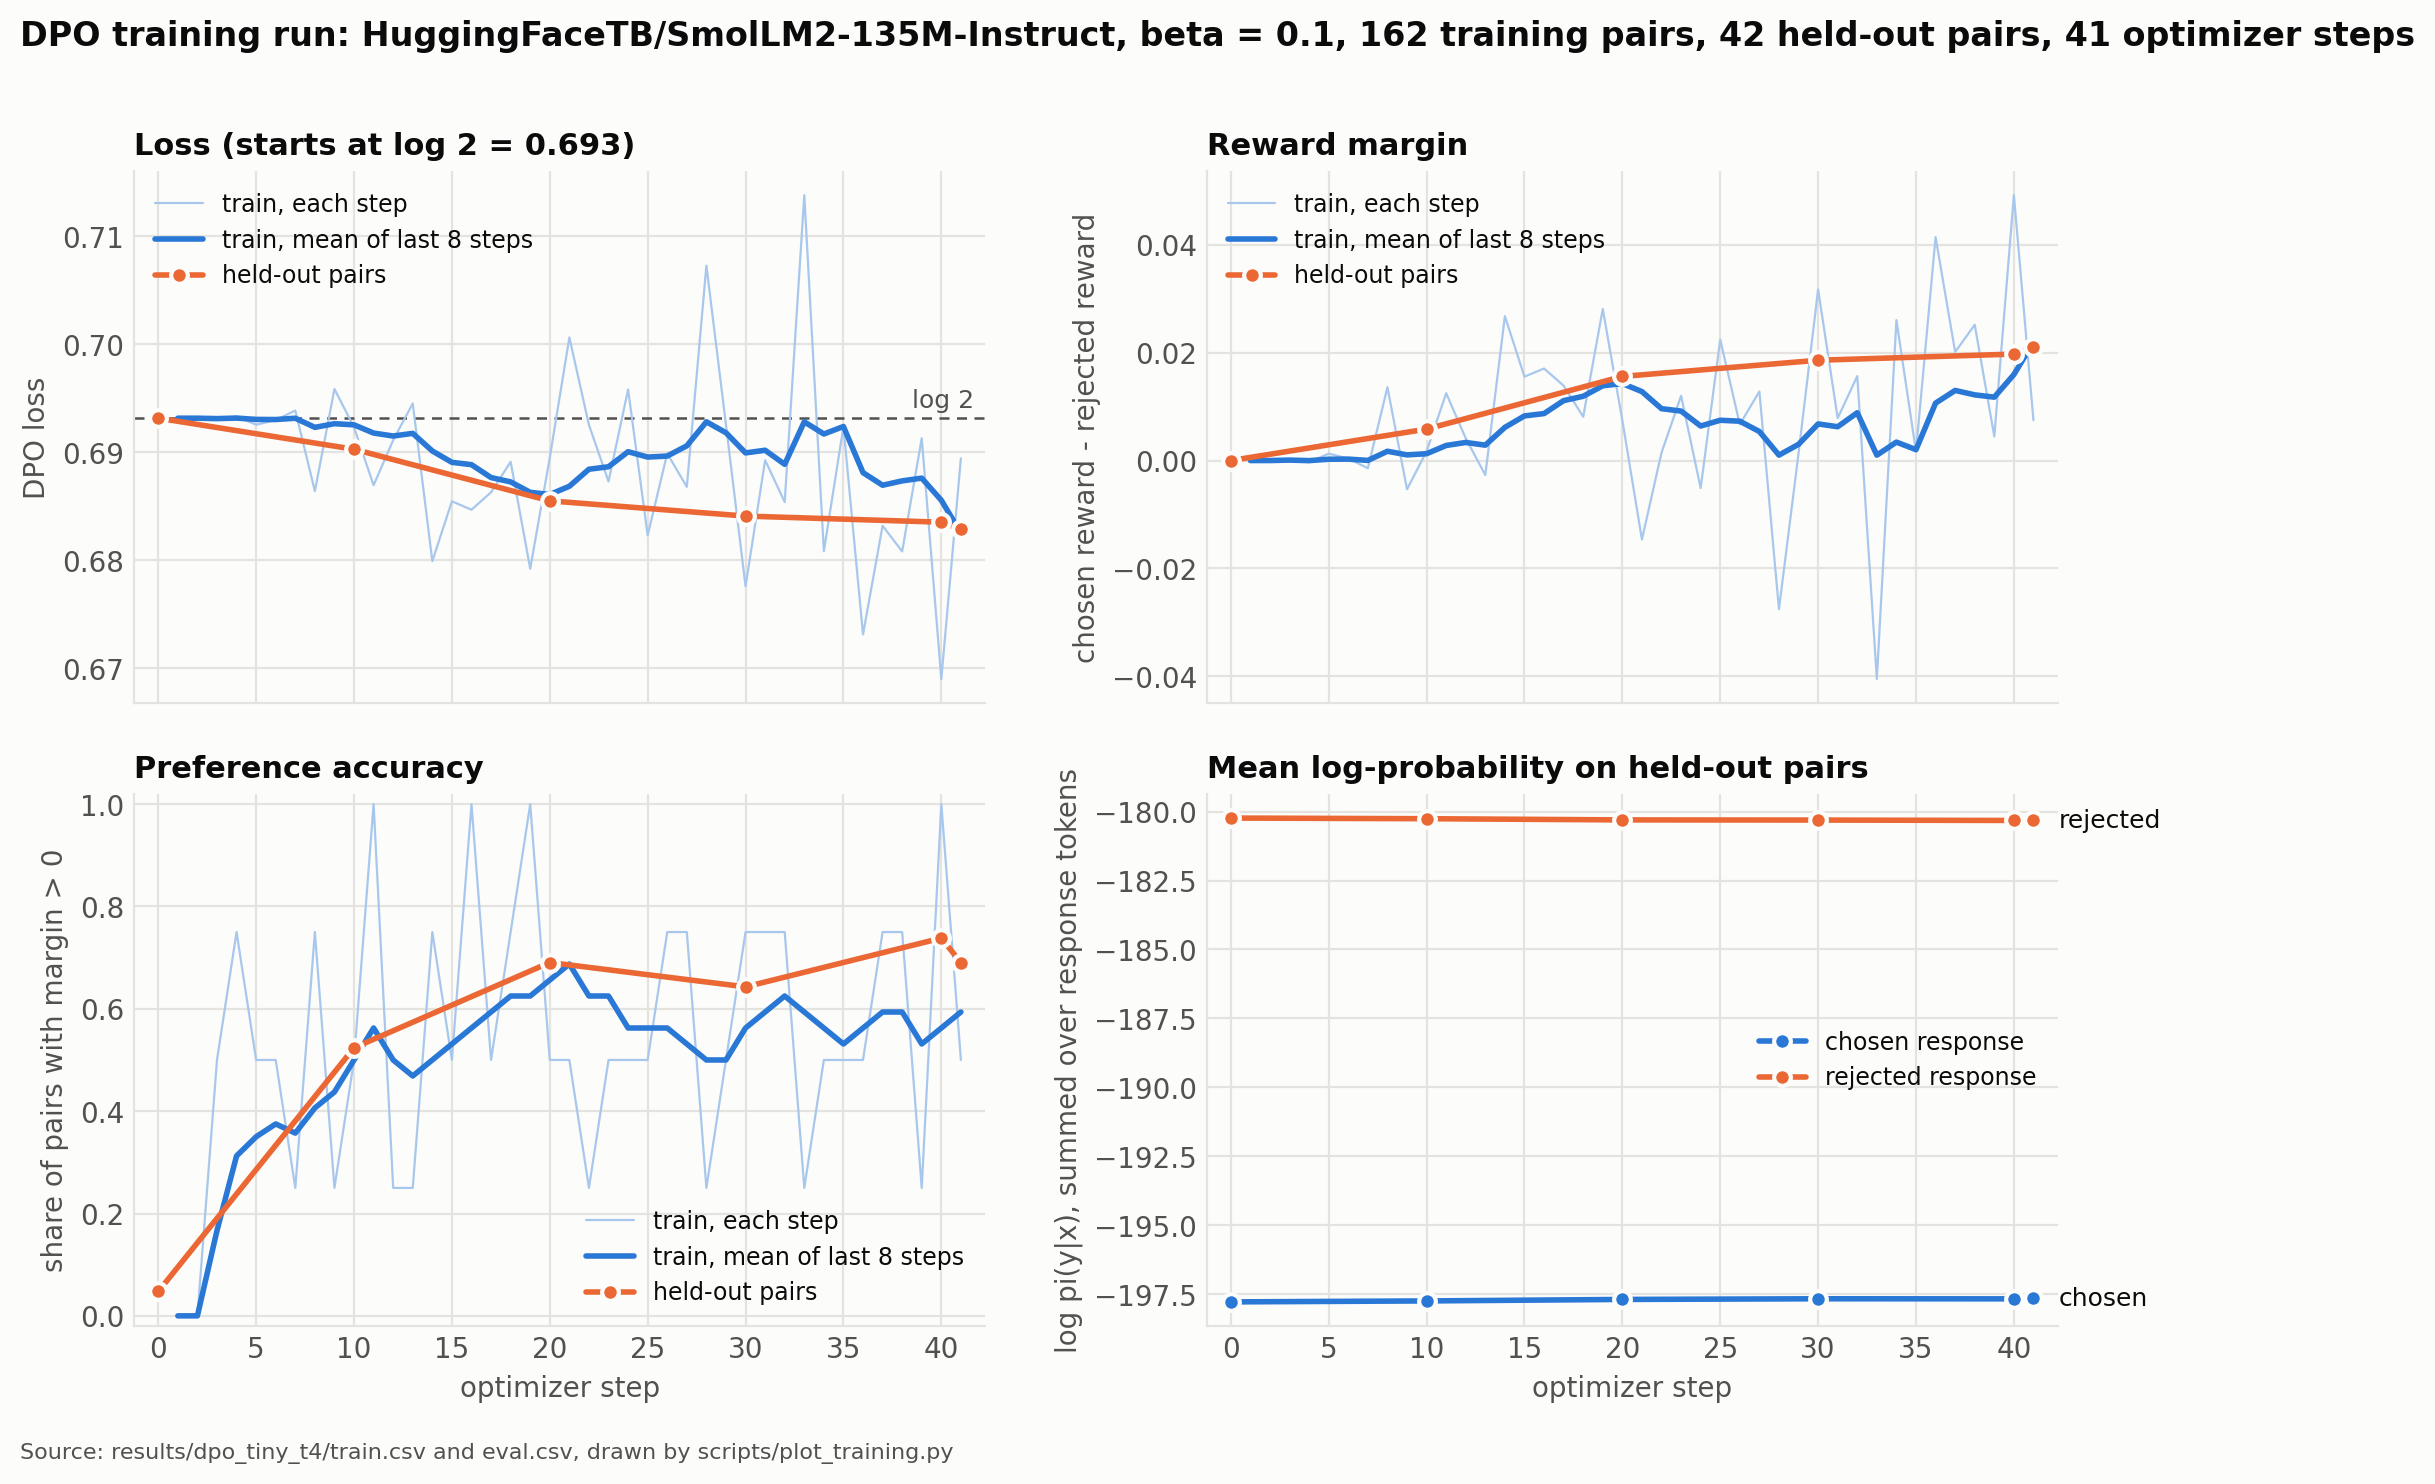
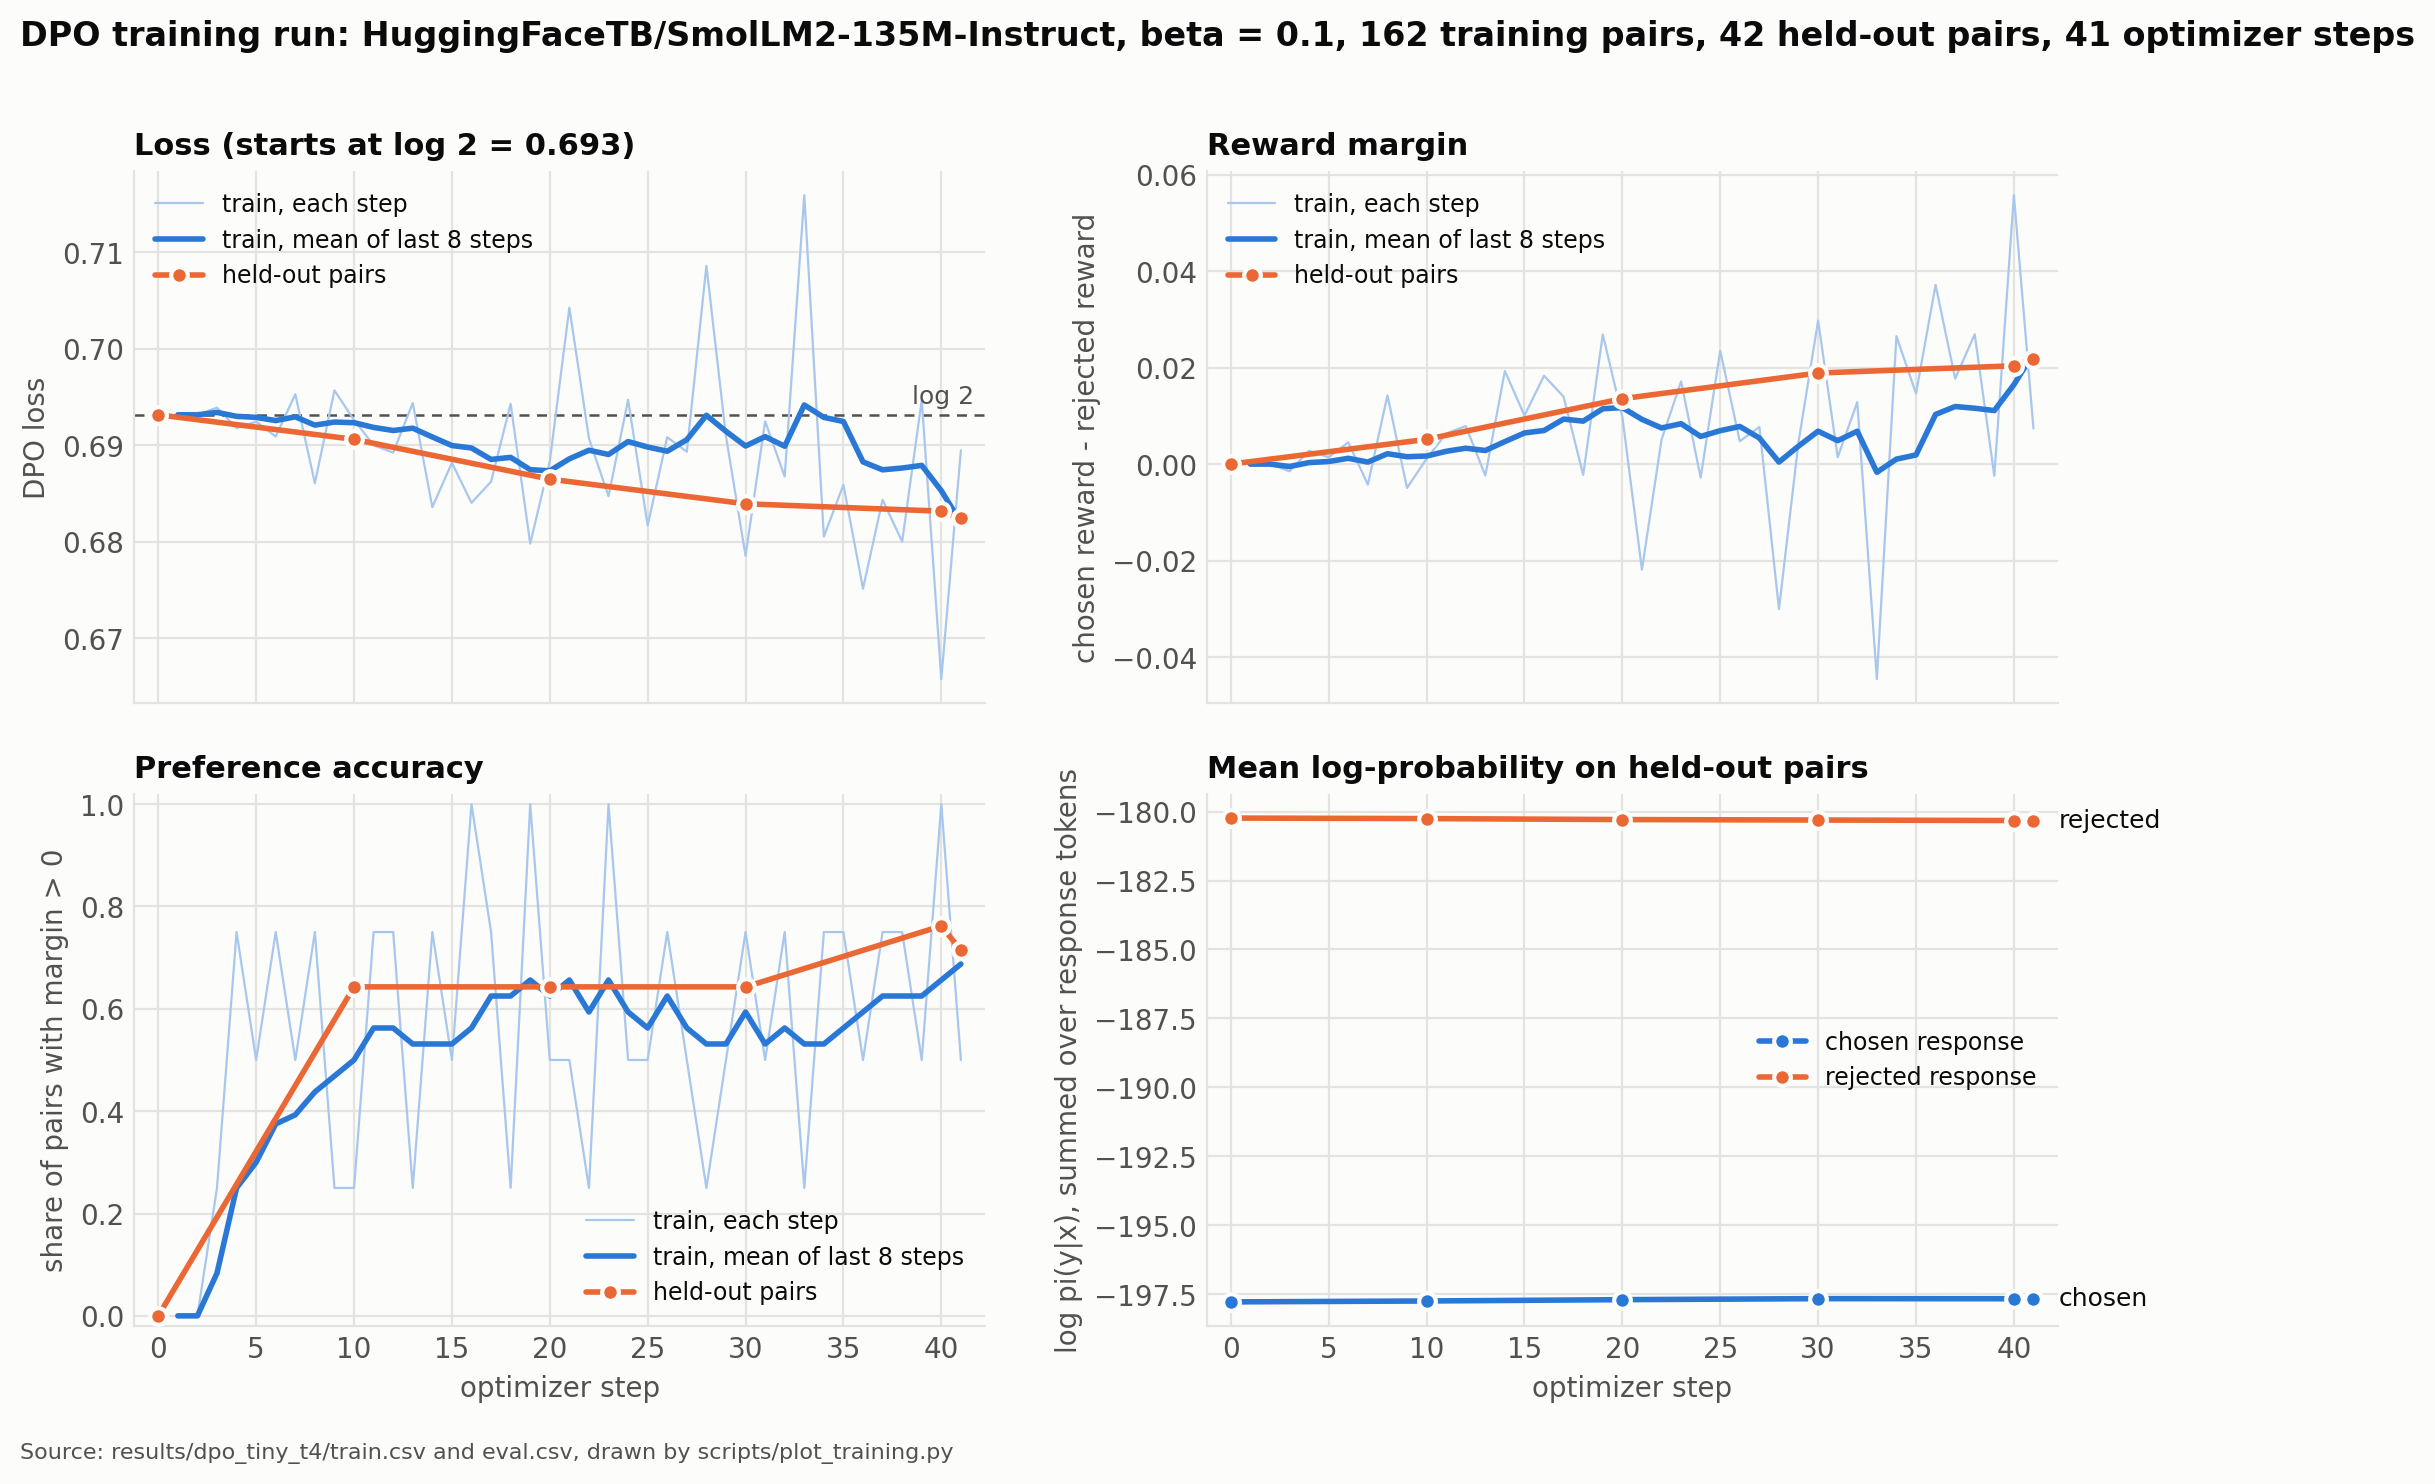
Restore the original tiny T4 run and keep the accidental rerun separately

diff --git a/docs/PLAN.md b/docs/PLAN.md
@@ -304,3 +304,7 @@ PyTorch, transformers, datasets, peft, trl (for the parity run only), CSV or wan
 **2026-11-17, third Colab session**
 - **The session cloned the code four minutes before the shortened parity run's new time estimate was pushed,** so the queue still budgeted 75 minutes for M2 and skipped it. It ran the beta sweep's first value instead (`results/sweep_beta_0.01`: 907 seconds, 8.8 GB peak). No job failed.
 - **With the current estimates M2's two runs will usually land in different sessions** (the queue does not start a job that does not fit the time left). That is fine: each run is pushed when it finishes and the parity figure is drawn once both exist.
+
+**2026-11-17, an old cell reran the tiny T4 run**
+- An earlier one-run Colab cell (`configs/dpo_tiny.yaml`, run name `dpo_tiny_t4`) was run again at 21:37 UTC and overwrote `results/dpo_tiny_t4`, which the README quotes. The original files were restored from git, and the rerun was kept as `results/dpo_tiny_t4_rerun`.
+- **The rerun is a useful reproducibility check:** it used code from after the `sequence_logprob` rewrite and the fp16 retry change, and ended at held-out loss 0.6829 against the original 0.6825 (19.21 s against 19.75 s, step-0 loss log 2 in both). The scoring rewrite did not change results beyond fp16 noise.
